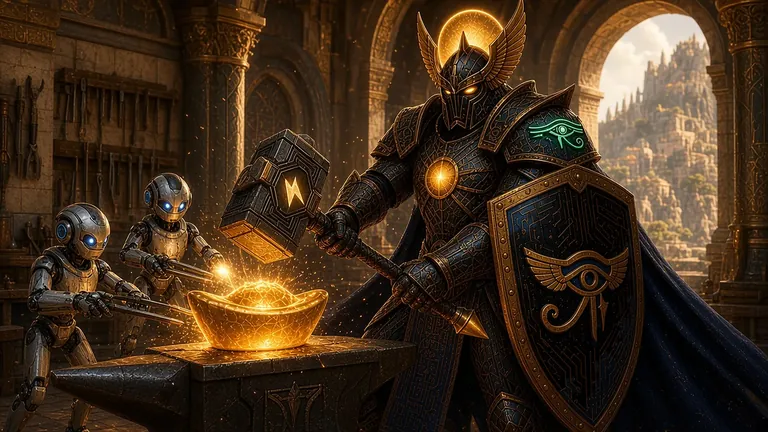
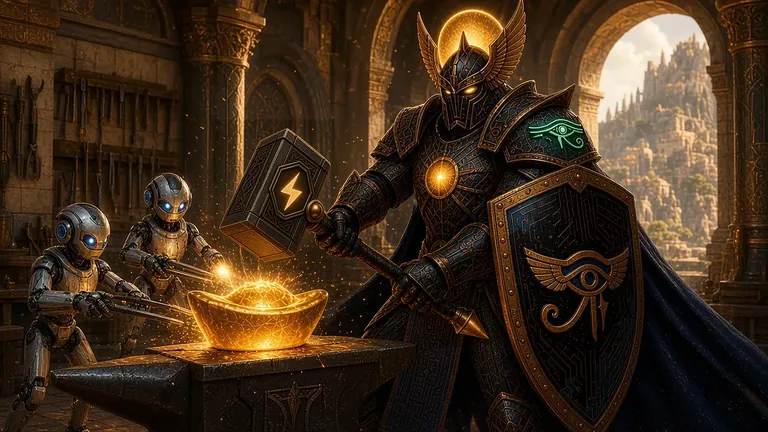
ART-UPLIFT-3: repaint six hero hammers to the chat/pilot model (Sherif 3:00 PM ET), rebuild sizes and thumbs, record ruling in ART-CANON

diff --git a/examples.html b/examples.html
@@ -46,7 +46,7 @@
 <body class="bg-black text-white overflow-x-hidden">
   <main class="max-w-3xl mx-auto px-4 sm:px-6 py-12 sm:py-16" id="rt-family-main" dir="ltr" lang="en" data-rt-prose>
     <figure class="rt-art-hero rounded-2xl">
-      <img src="/assets/art/hero-examples-workbench-bolt-768.webp" srcset="/assets/art/hero-examples-workbench-bolt-768.webp 768w, /assets/art/hero-examples-workbench-bolt-1280.webp 1280w" sizes="(max-width: 800px) 100vw, 768px" width="1280" height="720" alt="Ra-Thor in dark gold-trimmed armour with a winged helm and emerald eye shoulder seals rests one hand on his great war hammer, its stone head marked with a gold lightning bolt on each face, and reaches toward a glowing gold crystal on a carved workbench, with floating gold diagrams above and his black and gold shield propped against the bench." loading="eager" fetchpriority="high" decoding="async">
+      <img src="/assets/art/hero-examples-workbench-bolt-768.webp" srcset="/assets/art/hero-examples-workbench-bolt-768.webp 768w, /assets/art/hero-examples-workbench-bolt-1280.webp 1280w" sizes="(max-width: 800px) 100vw, 768px" width="1280" height="720" alt="Ra-Thor in dark gold-trimmed armour with a winged helm and emerald eye shoulder seals rests one hand on his great war hammer, its dark carved head marked with a glowing gold lightning bolt, and reaches toward a glowing gold crystal on a carved workbench, with floating gold diagrams above and his black and gold shield propped against the bench." loading="eager" fetchpriority="high" decoding="async">
     </figure>
     <div class="text-center mb-12">
       <h1 class="title-font text-5xl sm:text-6xl font-black tracking-tighter thunder-glow mb-3">Product examples</h1>

diff --git a/employ.html b/employ.html
@@ -53,7 +53,7 @@
       </div>
       <p class="rt-page-week"><a href="/constellation-week.html" data-i18n="weekMore">Full update note →</a></p>
       <figure class="rt-art-hero rounded-3xl">
-        <img src="/assets/art/hero-employ-commission-hall-768.webp" srcset="/assets/art/hero-employ-commission-hall-768.webp 768w, /assets/art/hero-employ-commission-hall-1672.webp 1672w" sizes="(max-width: 800px) 100vw, 768px" width="1672" height="941" alt="In a bright teal and gold hall, Ra-Thor rests one gauntlet on the haft of his great war hammer, its stone head marked with a gold lightning bolt on each face, and with his black and gold shield on his arm accepts a sealed, gold-ribboned scroll from a young client in a teal coat across a glowing terrain map table, while two small silver drones hover overhead." fetchpriority="high" decoding="async">
+        <img src="/assets/art/hero-employ-commission-hall-768.webp" srcset="/assets/art/hero-employ-commission-hall-768.webp 768w, /assets/art/hero-employ-commission-hall-1672.webp 1672w" sizes="(max-width: 800px) 100vw, 768px" width="1672" height="941" alt="In a bright teal and gold hall, Ra-Thor rests one gauntlet on the haft of his great war hammer, its dark carved head marked with a glowing gold lightning bolt, and with his black and gold shield on his arm accepts a sealed, gold-ribboned scroll from a young client in a teal coat across a glowing terrain map table, while two small silver drones hover overhead." fetchpriority="high" decoding="async">
       </figure>
       <div class="text-center mb-12">
         <h1 data-i18n="employTitle" class="title-font text-5xl sm:text-6xl font-black tracking-tighter thunder-glow mb-3">How to employ</h1>

diff --git a/tests/hero-uniqueness.test.js b/tests/hero-uniqueness.test.js
@@ -295,8 +295,8 @@ var supplied = {
   'assets/art/hero-moment-research-garden-768.webp': 82366,
   'assets/art/hero-docs-archive-light-1280.webp': 157536,
   'assets/art/hero-docs-archive-light-768.webp': 73704,
-  'assets/art/hero-examples-workbench-bolt-1280.webp': 138116,
-  'assets/art/hero-examples-workbench-bolt-768.webp': 60830,
+  'assets/art/hero-examples-workbench-bolt-1280.webp': 136536,
+  'assets/art/hero-examples-workbench-bolt-768.webp': 60414,
   'assets/art/hero-gox-storm-signal-1280.webp': 147906,
   'assets/art/hero-gox-storm-signal-768.webp': 70348,
   'assets/art/hero-legal-hall-records-1280.webp': 91930,

diff --git a/docs/ART-CANON.md b/docs/ART-CANON.md
@@ -4,20 +4,20 @@ This file records the permanent visual canon for Ra-Thor in rathor.ai site art (
 
 Reference image: [`assets/canon/rathor-hammer-reference.webp`](../assets/canon/rathor-hammer-reference.webp). It was supplied by Sherif in chat at 2:17 PM ET Nov 25, and resized to 1280×720. It shows Ra-Thor raising the hammer in a lightning storm with his Eye of Horus shield. No page uses it and it is not in the offline cache.
 
-Labels: **Ruling** means a Sherif quote below directly supports the item. **Inference (Wild), not a Sherif ruling** means it comes from the reference image, an earlier brief, or Wild's reading, and has not been ruled on in words.
+Labels: **Ruling** means a Sherif quote below directly supports the item ("via the model" means the 3:00 PM ruling, through what the chat.html and pilot.html hammers show). **Inference (Wild), not a Sherif ruling** means it comes from the reference image, an earlier brief, or Wild's reading, and has not been ruled on in words.
 
 ## Hammer
 
-- **Head (Ruling, 2:15 PM):** one complete head with both ends intact. It must never be truncated, cut off or shaved flat.
-  - Rectangular, squared ends (chamfered corners are fine): *Inference (Wild), not a Sherif ruling*, read from the 2:17 PM example.
-- **Centre:** a gold lightning bolt (like the ⚡ emoji) in the centre of the head, with no eye, gems or text on the hammer. *Inference (Wild), not a Sherif ruling.* It comes from the reference image and the earlier ART-UPLIFT-3 brief. At 2:15 PM Sherif said "the symbol on the center area was cool, but doesn't matter".
-- **Top (Ruling, 1:22 PM and 1:43 PM):** nothing on top of the head, so no cone, triangle or spike.
-- **Neck:** a plain gold collar band where the haft enters the head. *Inference (Wild), not a Sherif ruling.* The 2:17 PM example shows a band, but Sherif never answered the joint-band question card.
-- **Base stud:** the small glowing gold stud at the base of the head in the reference is *unruled*.
-- **Haft (Ruling, 1:32 PM):** the hammer always has its handle.
-  - Long, slim, dark and banded: *Inference (Wild), not a Sherif ruling*, from the 2:17 PM example.
-- **Pommel:** a glowing gold cone at the bottom end of the haft only. *Inference (Wild), not a Sherif ruling*, from the 2:17 PM example.
-- **Scale:** heroic, with the head about as wide as his shoulders or hips. *Inference (Wild), not a Sherif ruling.*
+**Model (Ruling, 3:00 PM ET Nov 25):** the hammers in the chat.html hero (`assets/art/hero-chat-library-counsel-*.webp`) and the pilot.html hero (`assets/art/hero-pilot-scoped-workbench-*.webp`, the hammer on the table) are the model for every hero. Where the 2:17 PM reference image and these two hammers differ, the two model hammers win.
+
+- **Head (Ruling, 2:15 PM and 3:00 PM):** one complete, symmetric rectangular block head of dark bronze-iron, with both ends intact, chamfered corners and carved knotwork relief, as on the model hammers. It must never be truncated, cut off or shaved flat.
+- **Centre (Ruling, 3:00 PM, via the model):** a recessed dark hexagonal panel framed in gold, holding a glowing gold lightning bolt (like the ⚡ emoji). There is no eye, gem or text on the hammer.
+- **Top (Ruling, 1:22 PM, 1:43 PM and 3:00 PM):** nothing on top of the head, so no cone, triangle or spike.
+- **Neck (Ruling, 3:00 PM, via the model):** a round gold boss or stud where the haft enters the head, with gold ring bands below it, as on the model hammers. There is no gold triangle or cone at the head.
+- **Haft (Ruling, 1:32 PM and 3:00 PM):** the hammer always has its handle. It is long, slim, dark, cross-hatched (wrapped) and has thin gold bands, as on the model hammers.
+- **Pommel (Ruling, 3:00 PM, via the model):** a gold cone at the bottom end of the haft only.
+- **Scale:** heroic, with the head about as wide as his shoulders or hips. *Inference (Wild), not a Sherif ruling.* The two model hammers are shown at different distances and do not settle the scale.
+- **Which faces carry the bolt:** *unruled.* The model hammers show the bolt on the one visible face.
 
 ## Shield
 
@@ -50,3 +50,4 @@ None of these has a Sherif quote on file in this record. Each comes from the ART
 | 2:15 PM | "This got over trimmed and we lost a portion of the hammer metal. Also the symbol on the center area was cool, but doesn't matter so use tokens efficiently while revising the hammer shape to be perfect and follow cannon throughout all images." | The head must stay complete, never trimmed. |
 | 2:17 PM | "This hammer example is mostly correct" (with the reference image) | The reference image is his example, which he called "mostly correct". He has not said which parts are off. |
 | 2:18 PM | "Make sure to keep everything Cannon for future use as we make decisions permanent." | This file is the permanent record. |
+| 3:00 PM | "Chat.html and pilot.html have correct hammers the rest should follow them" | The chat.html and pilot.html hero hammers are the model for every hero (see Hammer). The other six hammers (Launch-Ra-Thor, briefing, employ, web-forge, examples and sovereign-shard) were repainted to follow them. |
